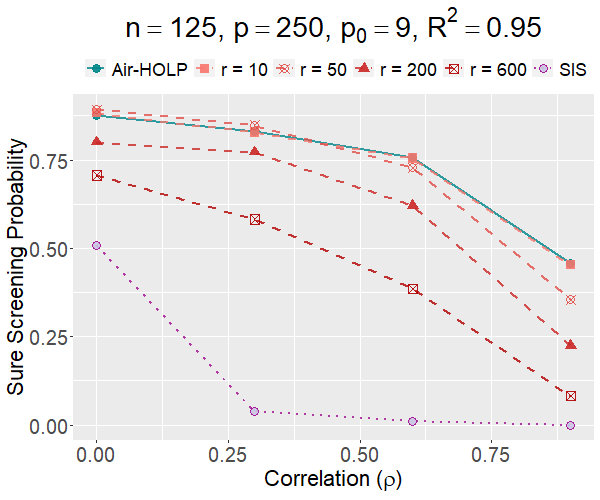
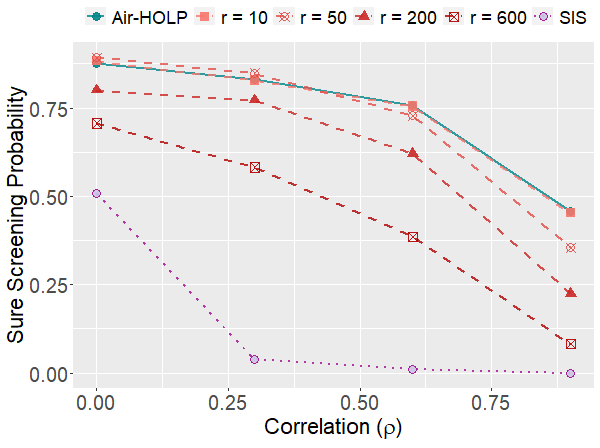
Air-HOLP page: text and boxes use the full width; shorter opening and problem; tiles over all 2,800 settings; Figure 1 settings as titles, not inside the images; stages as bullets; no number table (Ibrahim, 25 Oct)
Claude-Session: https://claude.ai/code/session_019hwFLpmYZ2QvC3aDogzthQ

diff --git a/profiles/ibrahim-joudah/projects/air-holp/index.html b/profiles/ibrahim-joudah/projects/air-holp/index.html
@@ -15,7 +15,7 @@
 <meta name="color-scheme" content="light">
 <link rel="icon" type="image/png" href="../../../../assets/favicon.png">
 <link rel="apple-touch-icon" href="../../../../assets/apple-touch-icon.png">
-<link rel="stylesheet" href="../../../assets/profile.css?v=f71b24f767">
+<link rel="stylesheet" href="../../../assets/profile.css?v=d2ab397874">
 </head>
 <body>
 <a class="skip" href="#main">Skip to content</a>
@@ -29,27 +29,27 @@
 <main id="main" class="project-page study">
   <section class="shell pp-head" aria-labelledby="title">
     <h1 id="title">Air-HOLP and the AirScreen R package</h1>
-    <p class="value">Feature screening is a fast first step for data with <strong>far more features than observations</strong>, such as gene expression: it ranks the features and keeps a short list that aims to hold every feature that truly matters. Ridge-HOLP screens well when <strong>features are highly correlated</strong>, but it depends on a penalty, and the best value differs from one dataset to the next. Choosing it the usual way, by cross-validation over a grid of values, means re-running the method many times, and random data splits can change which features are kept. <strong>Air-HOLP selects the penalty adaptively and efficiently</strong>: it updates it from the data, with no grid and no random splits, at the same time complexity as Ridge-HOLP.</p>
-    <p class="second">Published as first author in <em>Statistics and Computing</em> (2025), with Samuel Müller and Houying Zhu, and released as the AirScreen R package on CRAN. Tested across a large range of simulation settings and on prostate cancer gene-expression data.</p>
-    <p class="meta">Published 2025 · R · feature screening · simulation and real data</p>
+    <p class="value">When a dataset has thousands of possible predictors, such as genes, but only a few of them affect the outcome, <strong>feature screening</strong> ranks all the predictors and keeps a short list that should contain every one that matters, so a model can then be built from far fewer. Ridge-HOLP screens well even when predictors are <strong>highly correlated</strong>, but only with a well-chosen penalty, and choosing it by cross-validation means re-running the method many times. <strong>Air-HOLP selects the penalty from the data, adaptively and efficiently.</strong></p>
+    
+    <p class="meta">Published as first author in <em>Statistics and Computing</em> (2025) and released as the AirScreen R package on CRAN.</p>
   </section>
 
   <section class="shell block" aria-labelledby="glance-h">
     <h2 id="glance-h">At a glance</h2>
     <ul class="glance">
-      <li><span class="kpi">45% higher · 8% lower</span><span class="kpi-label">sure screening probability than Ridge-HOLP across <strong>1,600 simulation settings</strong>; equal in the other 47%</span></li>
-      <li><span class="kpi">Better at predicting prostate cancer stages</span><span class="kpi-label">with 8 genes, multiple R of <strong>0.85</strong> against 0.80 for Ridge-HOLP and 0.70 for SIS on prostate cancer; higher than both at every stage</span></li>
+      <li><span class="kpi">40% higher · 12% lower</span><span class="kpi-label">sure screening probability than Ridge-HOLP across <strong>2,800 simulation settings</strong>; equal in the other 48%</span></li>
+      <li><span class="kpi">Best on prostate cancer data</span><span class="kpi-label">its genes predict each of the four stages best; for prostate cancer, multiple R <strong>0.85</strong> vs 0.80 (Ridge-HOLP) and 0.70 (SIS)</span></li>
       <li><span class="kpi">On CRAN</span><span class="kpi-label"><strong>AirScreen</strong>, an R package implementing the method</span></li>
       
     </ul>
   </section>
 
   <section class="shell block study-sec" id="problem" aria-labelledby="problem-h">
-    <h2 id="problem-h">The problem: thousands of correlated features, and a penalty to choose</h2>
+    <h2 id="problem-h">The problem: correlated predictors, and a penalty to choose</h2>
     
     
-    <p>In data such as gene expression, the number of features p can far exceed the number of observations n, and the features are often highly correlated. <strong>Feature screening</strong> is a dimensionality reduction step, usually used before model selection: it aims to remove as many irrelevant features as possible while keeping all the <strong>true features</strong>, those that really affect the response. A good screening method has the <strong>sure screening property</strong>: as the sample size grows, the probability that its short list keeps every true feature approaches 1. The popular <strong>Sure Independence Screening (SIS)</strong> ranks each feature by its own correlation with the response, one at a time, so it can perform poorly when features are highly correlated. <strong>HOLP</strong> (Wang and Leng, 2016) measures the joint relation between all the features and the response instead, and <strong>Ridge-HOLP</strong> adds a ridge penalty r that keeps it stable and handles multicollinearity. Choosing r well is crucial: it balances bias and variance.</p>
-    <ul class="points"><li><strong>Why choosing r is the hard part.</strong> Bootstrapping and cross-validation recompute Ridge-HOLP again and again: k-fold cross-validation over a grid of penalty values needs (grid size × k) runs, so 100 values and 10 folds mean 1,000 runs, and leave-one-out needs (grid size × n).</li><li><strong>And it is not stable.</strong> Cross-validation splits the data at random, and different splits may lead to different screened features.</li></ul>
+    <p>In data such as gene expression, there can be far more predictors (features) than observations, and they are often highly correlated. Screening should keep every <strong>true feature</strong>, one that really affects the outcome, while dropping most of the rest; a method that does this with probability approaching 1 as the sample grows has the <strong>sure screening property</strong>. The challenges:</p>
+    <ul class="points"><li><strong>One at a time fails under correlation.</strong> Sure Independence Screening (SIS) ranks each feature by its own correlation with the outcome, so it can perform poorly when features are highly correlated.</li><li><strong>Joint screening needs a penalty.</strong> HOLP (Wang and Leng, 2016) looks at all the features together; Ridge-HOLP adds a ridge penalty r for stability, but the best r differs from one dataset to the next.</li><li><strong>Choosing it is slow.</strong> Cross-validation over a grid re-runs Ridge-HOLP (grid size × k) times: 100 values and 10 folds mean 1,000 runs, and leave-one-out needs (grid size × n).</li><li><strong>And unstable.</strong> Cross-validation splits the data at random, and different splits can lead to different screened features.</li></ul>
     
     
     
@@ -67,8 +67,8 @@
   <section class="shell block study-sec" id="adapt" aria-labelledby="adapt-h">
     <h2 id="adapt-h">In one setting low penalties win, in the other high penalties win; Air-HOLP does well in both</h2>
     
-    <figure class="chart figset figset-pair"><div class="figset-cq"><fieldset class="figset-switch"><legend class="figset-instr">Tap a setting to show its chart</legend><div class="figset-opts"><label><input type="radio" name="fs-adapt" value="1" checked data-name="Setting 1: low penalties do best"><span class="figset-opt"><span class="figset-tick" aria-hidden="true"></span>Setting 1<small>low penalties do best</small></span></label><label><input type="radio" name="fs-adapt" value="2" data-name="Setting 2: high penalties do best"><span class="figset-opt"><span class="figset-tick" aria-hidden="true"></span>Setting 2<small>high penalties do best</small></span></label></div><p class="figset-status" aria-live="polite" hidden>Showing: Setting 1: low penalties do best</p></fieldset><div class="figset-grid"><div class="figset-panel" data-p="1"><p class="figset-title"><strong>Setting 1: low penalties do best</strong><span class="figset-sub">n = 125 observations, p = 250 features, 9 true features, R² = 0.95</span></p><a class="figset-img" href="fig1a.png" aria-label="Open full size: Setting 1: low penalties do best"><img src="fig1a.png" alt="Sure screening probability against correlation in Setting 1: Air-HOLP is at the top with r = 10 and r = 50; r = 200, r = 600 and SIS are lower." width="600" height="500"></a></div><div class="figset-panel" data-p="2"><p class="figset-title"><strong>Setting 2: high penalties do best</strong><span class="figset-sub">n = 1,000 observations, p = 1,250 features, 15 true features, R² = 0.5</span></p><a class="figset-img" href="fig1b.png" aria-label="Open full size: Setting 2: high penalties do best"><img src="fig1b.png" alt="Sure screening probability against correlation in Setting 2: Air-HOLP is at the top with r = 200 and r = 600; r = 10, r = 50 and SIS are lower." width="600" height="500"></a></div></div></div><figcaption>Figure 1(a) and 1(b): sure screening probability as the correlation between features rises. Ridge-HOLP is shown with four fixed penalties, r = 10, 50, 200 and 600; Air-HOLP selects its own. <span class="fig-credit">Figure from Joudah, Müller and Zhu (2025), Statistics and Computing, CC BY 4.0.</span></figcaption><dl class=fig-measures><div><dt>Sure screening probability</dt><dd>the share of the 500 simulated datasets in which all the true features are among the top ⌈n/log(n)⌉ screened features. Higher is better.</dd></div><div><dt>Penalty r</dt><dd>the ridge tuning parameter of Ridge-HOLP, fixed in advance; Air-HOLP selects it from the data.</dd></div><div><dt>Correlation (ρ)</dt><dd>the correlation between every pair of features in the simulated data.</dd></div></dl></figure>
-    <p>The smaller penalties (r = 10 and 50) perform well in Setting 1 but not in Setting 2, and the larger ones (r = 200 and 600) show the opposite trend. Air-HOLP consistently performs well in both. SIS works best when features are uncorrelated but performs poorly when they are highly correlated, where Ridge-HOLP and Air-HOLP are superior.</p>
+    <figure class="chart figset figset-pair"><div class="figset-cq"><fieldset class="figset-switch"><legend class="figset-instr">Tap a setting to show its chart</legend><div class="figset-opts"><label><input type="radio" name="fs-adapt" value="1" checked data-name="Setting 1: low penalties do best"><span class="figset-opt"><span class="figset-tick" aria-hidden="true"></span>Setting 1<small>low penalties do best</small></span></label><label><input type="radio" name="fs-adapt" value="2" data-name="Setting 2: high penalties do best"><span class="figset-opt"><span class="figset-tick" aria-hidden="true"></span>Setting 2<small>high penalties do best</small></span></label></div><p class="figset-status" aria-live="polite" hidden>Showing: Setting 1: low penalties do best</p></fieldset><div class="figset-grid"><div class="figset-panel" data-p="1"><p class="figset-title"><strong>Setting 1: low penalties do best</strong><span class="figset-sub">n = 125 observations, p = 250 features, 9 true features, R² = 0.95</span></p><a class="figset-img" href="fig1a.png" aria-label="Open full size: Setting 1: low penalties do best"><img src="fig1a.png" alt="Sure screening probability against correlation in Setting 1: Air-HOLP is at the top with r = 10 and r = 50; r = 200, r = 600 and SIS are lower." width="600" height="448"></a></div><div class="figset-panel" data-p="2"><p class="figset-title"><strong>Setting 2: high penalties do best</strong><span class="figset-sub">n = 1,000 observations, p = 1,250 features, 15 true features, R² = 0.5</span></p><a class="figset-img" href="fig1b.png" aria-label="Open full size: Setting 2: high penalties do best"><img src="fig1b.png" alt="Sure screening probability against correlation in Setting 2: Air-HOLP is at the top with r = 200 and r = 600; r = 10, r = 50 and SIS are lower." width="600" height="448"></a></div></div></div><figcaption>Figure 1(a) and 1(b): sure screening probability as the correlation between features rises. Ridge-HOLP is shown with four fixed penalties, r = 10, 50, 200 and 600; Air-HOLP selects its own. <span class="fig-credit">Figure from Joudah, Müller and Zhu (2025), Statistics and Computing, CC BY 4.0.</span></figcaption><dl class=fig-measures><div><dt>Sure screening probability</dt><dd>the share of the 500 simulated datasets in which all the true features are among the top ⌈n/log(n)⌉ screened features. Higher is better.</dd></div><div><dt>Penalty r</dt><dd>the ridge tuning parameter of Ridge-HOLP, fixed in advance; Air-HOLP selects it from the data.</dd></div><div><dt>Correlation (ρ)</dt><dd>the correlation between every pair of features in the simulated data.</dd></div></dl></figure>
+    <p>Small penalties (r = 10, 50) do well in Setting 1 but not in Setting 2, and large ones (r = 200, 600) the opposite; Air-HOLP does well in both. SIS works best when features are uncorrelated but poorly when they are highly correlated.</p>
     
     
     
@@ -76,19 +76,19 @@
   </section>
   <section class="shell block study-sec" id="prostate" aria-labelledby="prostate-h">
     <h2 id="prostate-h">Applied to prostate cancer: better at predicting each stage</h2>
-    <p class="lead-note">Simulations show how a method behaves when the truth is known; the real data shows it works in practice.</p>
-    <figure class="chart figset figset-quad"><div class="figset-cq"><fieldset class="figset-switch"><legend class="figset-instr">Tap a stage to show its chart</legend><div class="figset-opts"><label><input type="radio" name="fs-prostate" value="1" checked data-name="Benign epithelium"><span class="figset-opt"><span class="figset-tick" aria-hidden="true"></span>Benign epithelium</span></label><label><input type="radio" name="fs-prostate" value="2" data-name="Intraepithelial neoplasia"><span class="figset-opt"><span class="figset-tick" aria-hidden="true"></span>Intraepithelial neoplasia</span></label><label><input type="radio" name="fs-prostate" value="3" data-name="Prostate cancer"><span class="figset-opt"><span class="figset-tick" aria-hidden="true"></span>Prostate cancer</span></label><label><input type="radio" name="fs-prostate" value="4" data-name="Metastatic disease"><span class="figset-opt"><span class="figset-tick" aria-hidden="true"></span>Metastatic disease</span></label></div><p class="figset-status" aria-live="polite" hidden>Showing: Benign epithelium</p></fieldset><div class="figset-grid"><div class="figset-panel" data-p="1"><a class="figset-img" href="fig4a.png" aria-label="Open full size: Benign epithelium"><img src="fig4a.png" alt="Benign epithelium: maximum multiple R against model size; Air-HOLP highest from 4 genes on." width="600" height="500"></a></div><div class="figset-panel" data-p="2"><a class="figset-img" href="fig4b.png" aria-label="Open full size: Intraepithelial neoplasia"><img src="fig4b.png" alt="Prostatic intraepithelial neoplasia: maximum multiple R against model size; Air-HOLP highest from 3 genes on." width="600" height="500"></a></div><div class="figset-panel" data-p="3"><a class="figset-img" href="fig4c.png" aria-label="Open full size: Prostate cancer"><img src="fig4c.png" alt="Prostate cancer: maximum multiple R against model size; Air-HOLP highest, SIS levels off lowest." width="600" height="500"></a></div><div class="figset-panel" data-p="4"><a class="figset-img" href="fig4d.png" aria-label="Open full size: Metastatic disease"><img src="fig4d.png" alt="Metastatic disease: maximum multiple R against model size; Air-HOLP and Ridge-HOLP close together, above SIS." width="600" height="500"></a></div></div></div><figcaption>Figure 4: the largest multiple R for models of 1 to 8 genes, chosen from the 21 genes each method screened, for each stage. <span class="fig-credit">Figure from Joudah, Müller and Zhu (2025), Statistics and Computing, CC BY 4.0.</span></figcaption><dl class=fig-measures><div><dt>Multiple R</dt><dd>the correlation between the stage (yes or no) and a model’s fitted values, from 0 to 1. For a fixed number of genes it ranks models the same way as R², the likelihood and in-sample prediction error. Higher is better.</dd></div><div><dt>Model size</dt><dd>the number of genes in the model; for each size, the best combination of the 21 screened genes is shown.</dd></div></dl><details class="chart-data"><summary>Show the numbers</summary><table><thead><tr><th>Stage (8 genes)</th><th>Air-HOLP</th><th>Ridge-HOLP</th><th>SIS</th></tr></thead><tbody><tr><th scope="row">Benign epithelium</th><td>0.897</td><td>0.886</td><td>0.887</td></tr><tr><th scope="row">Intraepithelial neoplasia</th><td>0.816</td><td>0.755</td><td>0.751</td></tr><tr><th scope="row">Prostate cancer</th><td>0.848</td><td>0.802</td><td>0.705</td></tr><tr><th scope="row">Metastatic disease</th><td>0.957</td><td>0.952</td><td>0.884</td></tr></tbody></table><p class="fig-credit">Largest multiple R with 8 genes, from a re-run of the paper’s code, which reproduces Figure 4.</p></details></figure>
-    <p>The Tomlins-V2 prostate cancer data (Tomlins et al., 2006) has 92 samples and 1,288 genes, collected to understand the genetic changes as prostate cancer progresses through four stages: <strong>benign epithelium</strong> (normal, healthy prostate cells), <strong>prostatic intraepithelial neoplasia</strong> (early changes in cells that might become cancer), <strong>prostate cancer</strong> (actual cancer cells) and <strong>metastatic disease</strong> (cancer cells that have spread to other parts of the body). For each stage, each method screened 21 genes (⌈n/log(n)⌉). Ridge-HOLP and Air-HOLP outperform SIS, especially for larger models, because the genes are correlated in this dataset; and Air-HOLP consistently outperforms Ridge-HOLP.</p>
+    <p class="lead-note">Simulations show how a method behaves when the truth is known; real data shows it works in practice.</p>
+    <figure class="chart figset figset-quad"><div class="figset-cq"><fieldset class="figset-switch"><legend class="figset-instr">Tap a stage to show its chart</legend><div class="figset-opts"><label><input type="radio" name="fs-prostate" value="1" checked data-name="Benign epithelium"><span class="figset-opt"><span class="figset-tick" aria-hidden="true"></span>Benign epithelium</span></label><label><input type="radio" name="fs-prostate" value="2" data-name="Intraepithelial neoplasia"><span class="figset-opt"><span class="figset-tick" aria-hidden="true"></span>Intraepithelial neoplasia</span></label><label><input type="radio" name="fs-prostate" value="3" data-name="Prostate cancer"><span class="figset-opt"><span class="figset-tick" aria-hidden="true"></span>Prostate cancer</span></label><label><input type="radio" name="fs-prostate" value="4" data-name="Metastatic disease"><span class="figset-opt"><span class="figset-tick" aria-hidden="true"></span>Metastatic disease</span></label></div><p class="figset-status" aria-live="polite" hidden>Showing: Benign epithelium</p></fieldset><div class="figset-grid"><div class="figset-panel" data-p="1"><a class="figset-img" href="fig4a.png" aria-label="Open full size: Benign epithelium"><img src="fig4a.png" alt="Benign epithelium: maximum multiple R against model size; Air-HOLP highest from 4 genes on." width="600" height="500"></a></div><div class="figset-panel" data-p="2"><a class="figset-img" href="fig4b.png" aria-label="Open full size: Intraepithelial neoplasia"><img src="fig4b.png" alt="Prostatic intraepithelial neoplasia: maximum multiple R against model size; Air-HOLP highest from 3 genes on." width="600" height="500"></a></div><div class="figset-panel" data-p="3"><a class="figset-img" href="fig4c.png" aria-label="Open full size: Prostate cancer"><img src="fig4c.png" alt="Prostate cancer: maximum multiple R against model size; Air-HOLP highest, SIS levels off lowest." width="600" height="500"></a></div><div class="figset-panel" data-p="4"><a class="figset-img" href="fig4d.png" aria-label="Open full size: Metastatic disease"><img src="fig4d.png" alt="Metastatic disease: maximum multiple R against model size; Air-HOLP and Ridge-HOLP close together, above SIS." width="600" height="500"></a></div></div></div><figcaption>Figure 4: the largest multiple R for models of 1 to 8 genes, chosen from the 21 genes each method screened, for each stage. <span class="fig-credit">Figure from Joudah, Müller and Zhu (2025), Statistics and Computing, CC BY 4.0.</span></figcaption><dl class=fig-measures><div><dt>Multiple R</dt><dd>the correlation between the stage (yes or no) and a model’s fitted values, from 0 to 1. For a fixed number of genes it ranks models the same way as R², the likelihood and in-sample prediction error. Higher is better.</dd></div><div><dt>Model size</dt><dd>the number of genes in the model; for each size, the best combination of the 21 screened genes is shown.</dd></div></dl></figure>
+    <p>The Tomlins-V2 prostate cancer data (Tomlins et al., 2006) has 92 samples and 1,288 genes from four stages of the disease:</p>
+    <ul class="points"><li><strong>Benign epithelium:</strong> normal, healthy prostate cells.</li><li><strong>Prostatic intraepithelial neoplasia:</strong> early changes in cells that might become cancer.</li><li><strong>Prostate cancer:</strong> actual cancer cells.</li><li><strong>Metastatic disease:</strong> cancer cells that have spread to other parts of the body.</li></ul>
     
-    
-    
+    <p>For each stage, each method screened 21 genes. Ridge-HOLP and Air-HOLP outperform SIS, especially for larger models, because the genes are correlated in this dataset; and Air-HOLP consistently outperforms Ridge-HOLP.</p>
     
   </section>
   <section class="shell block study-sec" id="overall" aria-labelledby="overall-h">
-    <h2 id="overall-h">Across 1,600 settings, Air-HOLP matched or improved on Ridge-HOLP</h2>
+    <h2 id="overall-h">Across 2,800 settings, Air-HOLP matched or improved on Ridge-HOLP</h2>
     
     <figure class="chart paper-fig wide"><img src="fig2.png" alt="Three heat maps of sure screening probability over n and p for Air-HOLP, Ridge-HOLP and their difference; the largest differences are where n is close to p." loading="lazy" width="1200" height="350"><figcaption>Figure 2: sure screening probability by sample size n and number of features p (correlation 0.6, 6 true features, R² = 0.5). Left: Air-HOLP; middle: Ridge-HOLP with r = 10; right: the difference. <span class="fig-credit">Figure from Joudah, Müller and Zhu (2025), Statistics and Computing, CC BY 4.0.</span></figcaption></figure>
-    <p>The simulations varied the sample size, the number of features, the correlation, the number of true features and the signal strength (R²), giving 1,600 settings. Air-HOLP’s sure screening probability was <strong>higher in 45%</strong> of settings and <strong>lower in 8%</strong>; in the other 47% the two were equal, typically when both probabilities were 0 or 1. The difference ranged from −0.02 to 0.60. The gap is most pronounced when n is close to p (for example n = 1,000 and p = 1,250), but it can still be significant elsewhere (n = 500, p = 1,250). The same conclusions apply to a second correlation structure in which only some of the features are correlated.</p>
+    <p>The simulations varied the sample size, the number of features, the correlation and how it is structured, the number of true features and the signal strength (R²), giving 2,800 settings. Air-HOLP’s sure screening probability was <strong>higher in 40%</strong> of them and <strong>lower in 12%</strong>; in the other 48% the two were equal, typically when both probabilities were 0 or 1. When all the features are correlated (1,600 settings), it was higher in 45% and lower in 8%. The gap is most pronounced when n is close to p (for example n = 1,000 and p = 1,250), but it can still be significant elsewhere (n = 500, p = 1,250).</p>
     
     
     

diff --git a/profiles/assets/profile.css b/profiles/assets/profile.css
@@ -138,7 +138,7 @@ details ul { margin: 0.4rem 0 0; padding-left: 1.2rem; }
 /* Project "how it works" pages (profiles/<slug>/projects/<project>/) */
 .visually-hidden { position: absolute; width: 1px; height: 1px; overflow: hidden; clip: rect(0 0 0 0); white-space: nowrap; }
 .pp-head { padding-top: 1.25rem; }
-.pp-head > * { max-width: 900px; }
+.pp-head > * { max-width: none; }
 .pp-head h1 { font-size: 1.75rem; margin: 0.25rem 0 0.75rem; }
 .private { color: var(--muted); font-size: 0.9375rem; border-left: 3px solid var(--gold); padding-left: 0.6rem; }
 .project-page .block { max-width: 1232px; }
@@ -240,10 +240,10 @@ details ul { margin: 0.4rem 0 0; padding-left: 1.2rem; }
 .subhead { font-size: 1.25rem; margin: 1.25rem 0 0.6rem; }
 
 /* "Study" project pages (Ibrahim, 25 Oct): finished studies told as sections, with charts from charts.py. */
-.study .second { max-width: 900px; margin-top: 0; }
-.study-sec > p, .study-sec > .points { max-width: 900px; }
-.lead-note { font-weight: 600; border-left: 3px solid var(--gold); padding-left: 0.6rem; max-width: 900px; }
-.chart { margin: 0.5rem 0 1rem; max-width: 820px; }
+.study .second { margin-top: 0; }
+
+.lead-note { font-weight: 600; border-left: 3px solid var(--gold); padding-left: 0.6rem; }
+.chart { margin: 0.5rem 0 1rem; }
 .chart figcaption { color: var(--muted); font-size: 0.9375rem; margin-top: 0.5rem; }
 .ladder-rows { list-style: none; margin: 0; padding: 0; display: grid; gap: 0.6rem; }
 .ladder-label { display: block; font-size: 0.9375rem; margin-bottom: 0.15rem; }
@@ -269,7 +269,7 @@ details ul { margin: 0.4rem 0 0; padding-left: 1.2rem; }
 .ch-line { fill: none; stroke: var(--navy); stroke-width: 2.5; }
 .ch-band { fill: var(--gold); opacity: 0.45; }
 .ch-ann { fill: var(--text); font-family: var(--font); font-weight: 600; }
-.model-card { margin: 0; padding: 0.5rem 1rem; max-width: 900px; }
+.model-card { margin: 0; padding: 0.5rem 1rem; }
 .model-card div { display: grid; gap: 0.1rem 1rem; padding: 0.45rem 0; border-top: 1px solid var(--border); }
 .model-card div:first-child { border-top: 0; }
 .model-card dt { font-weight: 700; color: var(--navy); }
@@ -324,23 +324,22 @@ details ul { margin: 0.4rem 0 0; padding-left: 1.2rem; }
 .paper-fig.wide { max-width: 1200px; }
 .paper-fig.wide img { max-width: 1200px; }
 .fig-credit { display: block; font-size: 0.8125rem; margin-top: 0.2rem; }
-.code { background: var(--navy); color: #f3f6f8; padding: 0.9rem 1rem; border-radius: 6px; overflow-x: auto; font-size: 0.875rem; line-height: 1.5; max-width: 820px; }
-.fold { max-width: 900px; margin-top: 0.5rem; }
+.code { background: var(--navy); color: #f3f6f8; padding: 0.9rem 1rem; border-radius: 6px; overflow-x: auto; font-size: 0.875rem; line-height: 1.5; }
+.fold { margin-top: 0.5rem; }
 .fold summary { cursor: pointer; color: var(--link); font-weight: 600; }
 .fold .points { margin-top: 0.5rem; }
 .fig-panel[hidden] { display: none; }
 
 /* Figure sets (Air-HOLP, round 2): side by side wherever the figure is 600 px or wider; a radio switch below that. */
 .figset { margin: 0.5rem 0 1rem; max-width: 1232px; }
-.figset-quad { max-width: 900px; }
 .figset-cq { container-type: inline-size; }
 .figset-grid { display: grid; gap: 16px; grid-template-columns: 1fr; }
 .figset-panel { min-width: 0; }
 .figset-img { display: block; }
 .figset-img img { display: block; width: 100%; max-width: 600px; height: auto; border: 1px solid var(--border); border-radius: 4px; background: #fff; }
 .figset-title { margin: 0 0 0.35rem; line-height: 1.3; color: var(--navy); }
-.figset-title strong { display: block; font-size: 1.0625rem; }
-.figset-sub { display: block; font-size: 0.875rem; color: var(--muted); }
+.figset-title strong { display: block; font-size: 1.25rem; }
+.figset-sub { display: block; font-size: 0.9375rem; color: var(--muted); }
 @container (min-width: 600px) { .figset-grid { grid-template-columns: 1fr 1fr; } }
 .figset-switch { display: none; border: 0; margin: 0 0 0.75rem; padding: 0; min-width: 0; }
 @supports selector(:has(*)) {
@@ -366,9 +365,11 @@ details ul { margin: 0.4rem 0 0; padding-left: 1.2rem; }
 .figset-opts input:checked + .figset-opt .figset-tick::before { content: "✓"; color: #fff; font-weight: 700; line-height: 1rem; }
 .figset-opts input:focus-visible + .figset-opt { outline: 3px solid var(--teal); outline-offset: 2px; }
 .figset-status { margin: 0.4rem 0 0; font-size: 0.875rem; color: var(--text); }
-.fig-measures { margin: 0.75rem 0 0; max-width: 900px; padding: 0.6rem 0.9rem; background: var(--panel); border-left: 3px solid var(--teal); font-size: 0.9375rem; line-height: 1.45; }
+.fig-measures { margin: 0.75rem 0 0; padding: 0.6rem 0.9rem; background: var(--panel); border-left: 3px solid var(--teal); font-size: inherit; line-height: 1.55; }
 .fig-measures div + div { margin-top: 0.4rem; }
 .fig-measures dt { display: inline; font-weight: 700; color: var(--navy); }
 .fig-measures dt::after { content: ": "; }
 .fig-measures dd { display: inline; margin: 0; }
 .paper-fig .fig-measures { margin-top: 0.75rem; }
+.pp-head .value { font-size: inherit; }
+.points + p { margin-top: 0.6rem; }

diff --git a/profiles/ibrahim-joudah/projects/agentic-ai/index.html b/profiles/ibrahim-joudah/projects/agentic-ai/index.html
@@ -15,7 +15,7 @@
 <meta name="color-scheme" content="light">
 <link rel="icon" type="image/png" href="../../../../assets/favicon.png">
 <link rel="apple-touch-icon" href="../../../../assets/apple-touch-icon.png">
-<link rel="stylesheet" href="../../../assets/profile.css?v=f71b24f767">
+<link rel="stylesheet" href="../../../assets/profile.css?v=d2ab397874">
 </head>
 <body>
 <a class="skip" href="#main">Skip to content</a>

diff --git a/profiles/ibrahim-joudah/index.html b/profiles/ibrahim-joudah/index.html
@@ -20,7 +20,7 @@
 <meta name="color-scheme" content="light">
 <link rel="icon" type="image/png" href="../../assets/favicon.png">
 <link rel="apple-touch-icon" href="../../assets/apple-touch-icon.png">
-<link rel="stylesheet" href="../assets/profile.css?v=f71b24f767">
+<link rel="stylesheet" href="../assets/profile.css?v=d2ab397874">
 <script type="application/ld+json">
 {
   "@context": "https://schema.org",

diff --git a/profiles/_src/study_page.html b/profiles/_src/study_page.html
@@ -31,7 +31,7 @@
     <h1 id="title">{{title}}</h1>
     <p class="value">{{{summary_html}}}</p>
     {{#second}}<p class="second">{{{second_html}}}</p>{{/second}}
-    <p class="meta">{{meta}}</p>
+    <p class="meta">{{{meta_html}}}</p>
   </section>
 
   <section class="shell block" aria-labelledby="glance-h">
